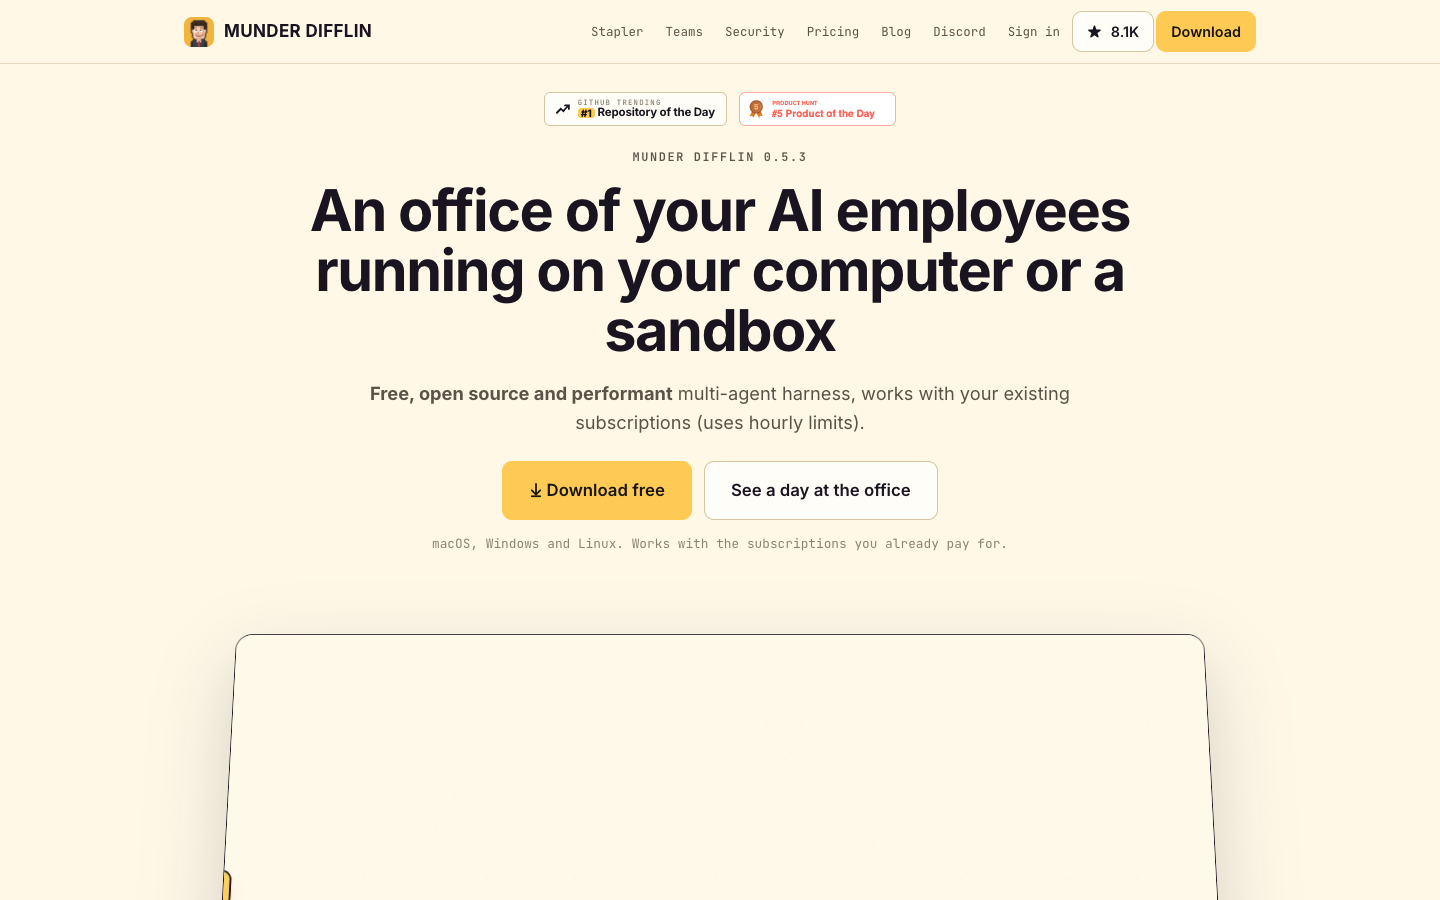
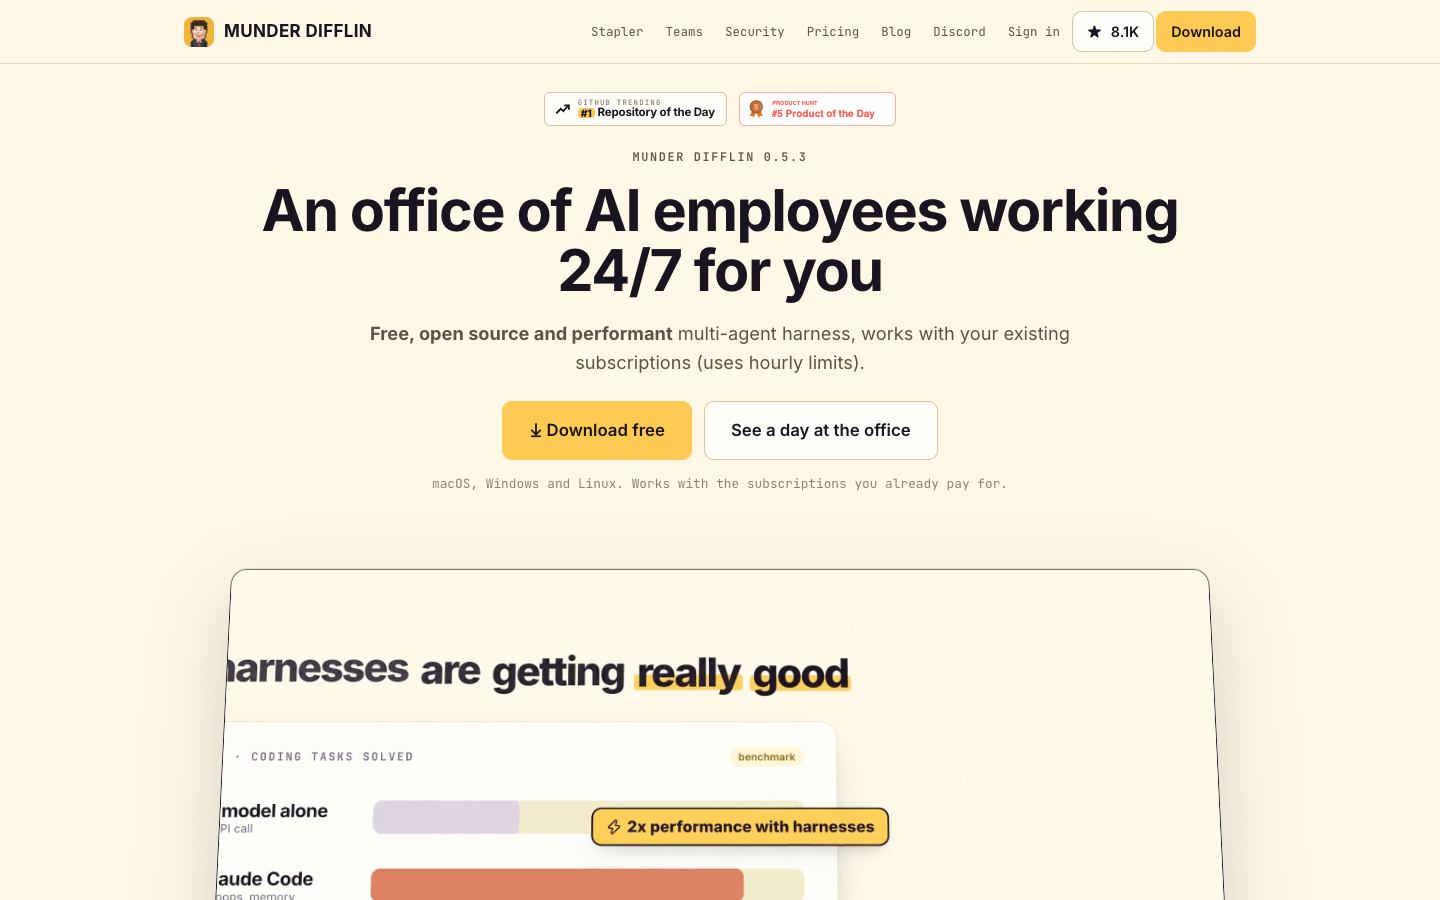
site: hero title is now "An office of AI employees working 24/7 for you"

diff --git a/docs/index.html b/docs/index.html
@@ -653,7 +653,7 @@ footer .foot,footer .foot a,footer .foot .credit a{color:#8F866F}
       <a class="ph-badge" href="https://www.producthunt.com/products/munder-difflin?embed=true&amp;utm_source=badge-top-post-badge&amp;utm_medium=badge&amp;utm_campaign=badge-munder-difflin" target="_blank" rel="noopener noreferrer" aria-label="Munder Difflin on Product Hunt: number 5 Product of the Day"><img alt="" width="250" height="54" src="https://api.producthunt.com/widgets/embed-image/v1/top-post-badge.svg?post_id=1221363&amp;theme=light&amp;period=daily&amp;t=1786777619876"></a>
     </div>
     <span class="eyebrow">Munder Difflin 0.5.3</span>
-    <h1>An office of your AI employees running on your computer or a sandbox</h1>
+    <h1>An office of AI employees working 24/7 for you</h1>
     <p class="lead"><strong>Free, open source and performant</strong> multi-agent harness, works with your existing subscriptions (uses hourly limits).</p>
     <div class="btn-row">
       <a class="btn primary lg" href="https://harnessmd.com/download">⤓ Download free</a>
